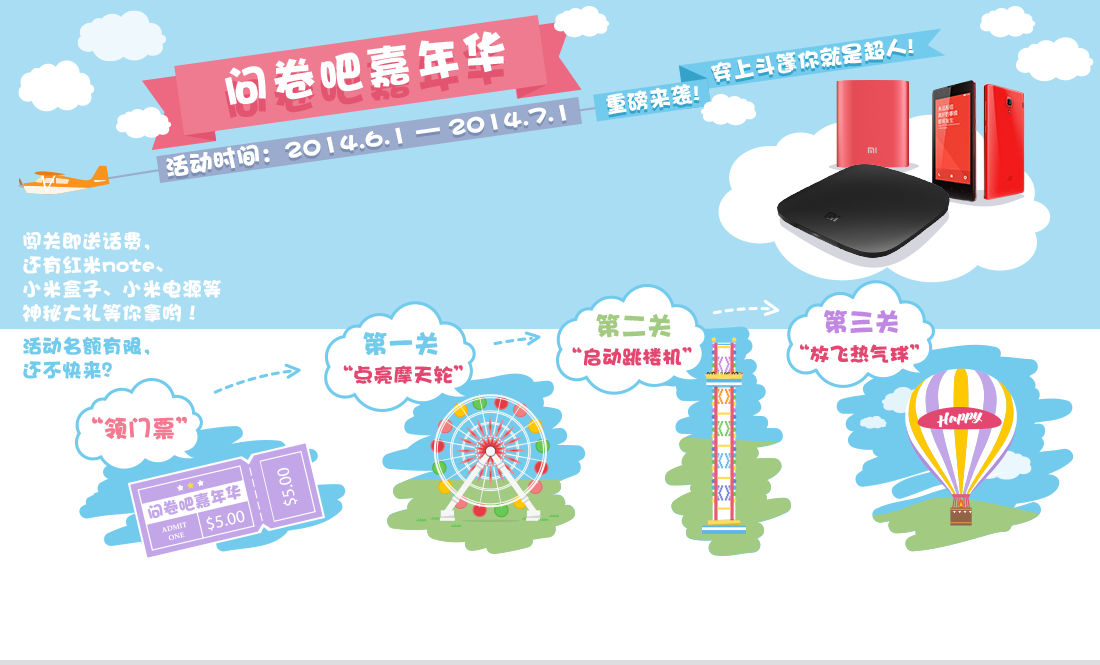
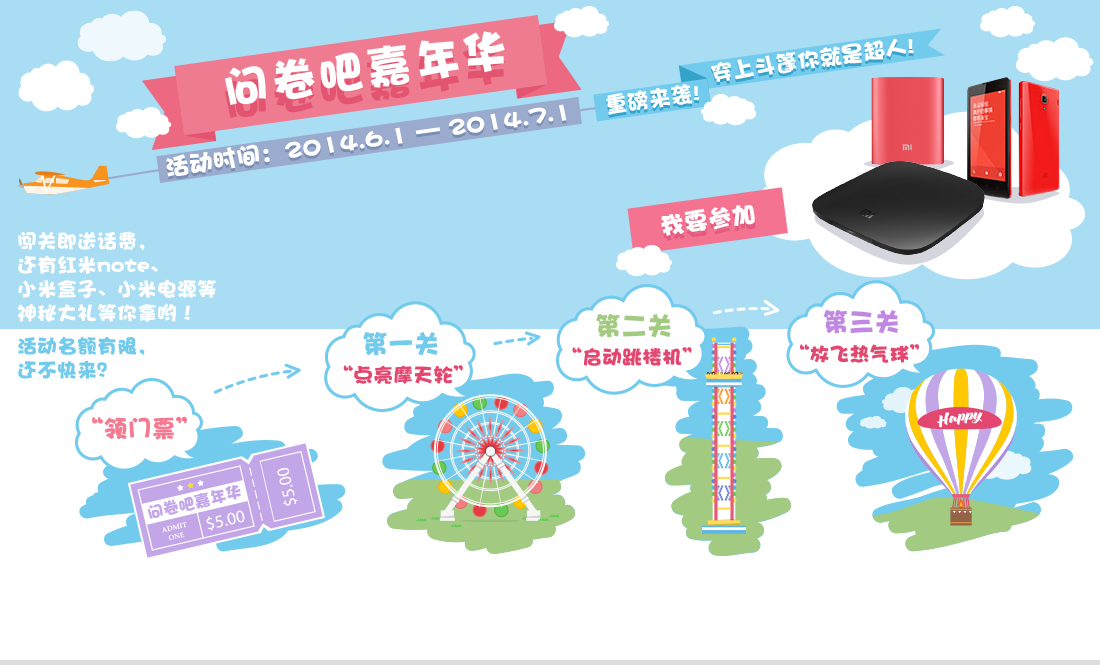
update

Changed region(s): [[0.5564, 0.0902, 0.9891, 0.4211], [0.0, 0.3308, 0.2164, 0.5714]]

diff --git a/app/assets/javascripts/pages/carnival/campaigns-bundle.js b/app/assets/javascripts/pages/carnival/campaigns-bundle.js
@@ -4,9 +4,26 @@ jQuery(function($) {
 		var drag = ad.children[0];
 		var b=true;
 		var a=ad.offsetTop;
+		var timer=null;
 		drag.onclick = function(){
+			clearInterval(timer);
+			adSport();
+		};	
+		ad.onclick = function(){
+			clearInterval(timer);
+			adSport();
+		}
+		var giftBtn = $('.gifts a');
+		for(var i=0;i<giftBtn.length;i++){
+			
+			giftBtn[i].onclick = function(ev){
+				var oEvent = ev || event;
+				oEvent.cancelBubble=true;
+			}
+		}
+		function adSport(){
 			if(b){
-				var timer = setInterval(function(){
+				timer = setInterval(function(){
 						a-=10;
 						if(a<=-ad.offsetHeight){
 							clearInterval(timer);
@@ -16,7 +33,7 @@ jQuery(function($) {
 						ad.style.top = a + 'px';
 					},20)
 				}else{
-					var timer = setInterval(function(){
+				timer = setInterval(function(){
 						a+=10;
 						if(a>=0){
 							clearInterval(timer);
@@ -26,21 +43,18 @@ jQuery(function($) {
 						ad.style.top = a + 'px';
 					},20)
 				};
-			};
-			
-		// var oSun = $('.sun')[0];
+			};	
+
     //顶部下拉菜单
     function pullDown(obj) {
         var oBox = $(obj)[0];
         oBox.onmouseover = function() {
             this.children[1].style.display = 'block';
             this.children[0].className = 'link active';
-            // oSun.style.display = 'none';
         };
         oBox.onmouseout = function() {
             this.children[1].style.display = 'none';
             this.children[0].className = 'link';
-            // oSun.style.display = 'block';
         };
     };
     pullDown('.questions');

diff --git a/app/assets/stylesheets/pages/carnival/campaigns-bundle.css.scss b/app/assets/stylesheets/pages/carnival/campaigns-bundle.css.scss
@@ -529,7 +529,7 @@ to{transform: rotate(359deg)}
 	}
 	#ad{
 		position: absolute;
-		top:40px;
+		top:0;
 		left:50%;
 		margin-left:-550px;
 		width:1100px;
@@ -537,6 +537,52 @@ to{transform: rotate(359deg)}
 		z-index: 10;
 		background: url('/assets/activities/2014-6/ferris/ad.png') no-repeat;
 		border-top:none;
+		.gifts{
+			position: absolute;
+			top:200px;
+			left:230px;
+			a{
+				width:371px;
+				height:28px;
+				display: block;
+			}
+			.gift-a{
+				@include ferris-sprite(gift_a);
+			}
+			.gift-b{
+				@include ferris-sprite(gift_b);
+			}
+			.gift-c{
+				@include ferris-sprite(gift_c);
+			}
+		}
+		.statistic{
+			width:300px;
+			margin:0 auto;
+			margin-top:600px;
+			text-align: center;
+			.yjsc{
+				width:94px;
+				height:25px;
+				display: inline-block;
+				background: url('/assets/activities/2014-6/ferris/yjsc.png') no-repeat;
+			}
+			b{
+				padding:0 10px;
+				color:#C3A5E8;
+				font-size: 30px;
+				font-weight: bold;
+				font-family: "Georgia";
+				height:25px;
+				display: inline-block;
+			}
+			.gjp{
+				width:74px;
+				height:25px;
+				display: inline-block;
+				background: url('/assets/activities/2014-6/ferris/gjp.png') no-repeat;
+			}
+		}
 		.drag{
 			position: absolute;
 			bottom:-75px;
